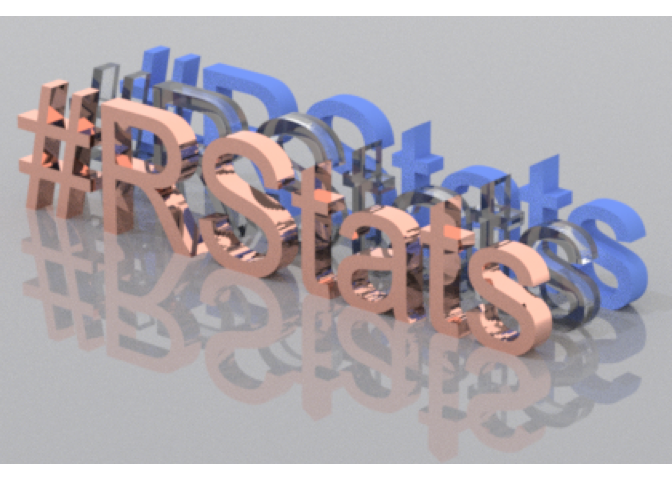
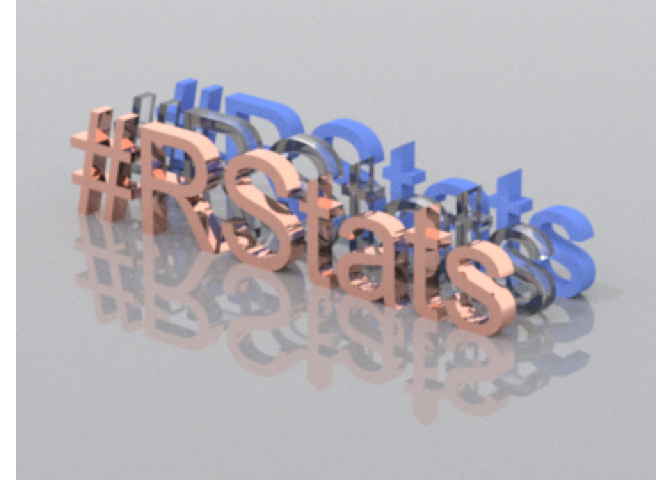
switch to smaller image to avoid CRAN size issue

diff --git a/README.md b/README.md
@@ -7,7 +7,7 @@
 
 ![](https://img.shields.io/badge/cool-useless-green.svg)
 [![CRAN](https://www.r-pkg.org/badges/version/picohdr)](https://CRAN.R-project.org/package=picohdr)
-[![R-CMD-check](https://github.com/coolbutuseless/picoexr-dev/actions/workflows/R-CMD-check.yaml/badge.svg)](https://github.com/coolbutuseless/picoexr-dev/actions/workflows/R-CMD-check.yaml)
+[![R-CMD-check](https://github.com/coolbutuseless/picohdr/actions/workflows/R-CMD-check.yaml/badge.svg)](https://github.com/coolbutuseless/picohdr/actions/workflows/R-CMD-check.yaml)
 <!-- badges: end -->
 
 `{picohdr}` is a package for reading and writing HDR (High Dynamic
@@ -225,10 +225,10 @@ exr_info(filename)
     #> [1] "ZIP"
     #> 
     #> $dataWindow
-    #> [1]   0   0 419 279
+    #> [1]   0   0 359 269
     #> 
     #> $displayWindow
-    #> [1]   0   0 419 279
+    #> [1]   0   0 359 269
     #> 
     #> $lineOrder
     #> [1] "increasing"
@@ -237,7 +237,7 @@ exr_info(filename)
     #> [1] 1
     #> 
     #> $renderTimeSeconds
-    #> [1] 55.13455
+    #> [1] 43.84048
     #> 
     #> $samplesPerPixel
     #> [1] 1024
@@ -256,15 +256,15 @@ exr_info(filename)
     #> [4,]  0.0000000  0.0000000  0.000000e+00  1.0000000
     #> 
     #> $worldToNDC
-    #>            [,1]       [,2]       [,3]      [,4]
-    #> [1,]  5.9577274 -5.6173983 -0.1724879 -2.540855
-    #> [2,] -2.1157532 -2.5187538  7.5005937  8.842100
-    #> [3,] -0.6037106 -0.7187030 -0.3449775 14.944022
-    #> [4,] -0.6037076 -0.7186995 -0.3449758 14.948948
+    #>            [,1]       [,2]       [,3]       [,4]
+    #> [1,]  4.5627465 -4.4456143 -0.1724879 -0.3088861
+    #> [2,] -1.7115160 -2.0375190  5.7906065  8.5373173
+    #> [3,] -0.6037106 -0.7187030 -0.3449775 14.9440222
+    #> [4,] -0.6037076 -0.7186995 -0.3449758 14.9489479
     #> 
     #> $chunk_offsets
-    #>  [1]    1210   92566  194283  315837  452402  596647  749869  910568 1075736
-    #> [10] 1237960 1389836 1534520 1667815 1786078 1891476 1994114 2093994 2191602
+    #>  [1]    1202   79967  158319  238640  338013  456525  582637  720330  863085
+    #> [10] 1000992 1127091 1242213 1339482 1428107 1514095 1597924 1680690
 
 ## EXR Implementation Notes
 
